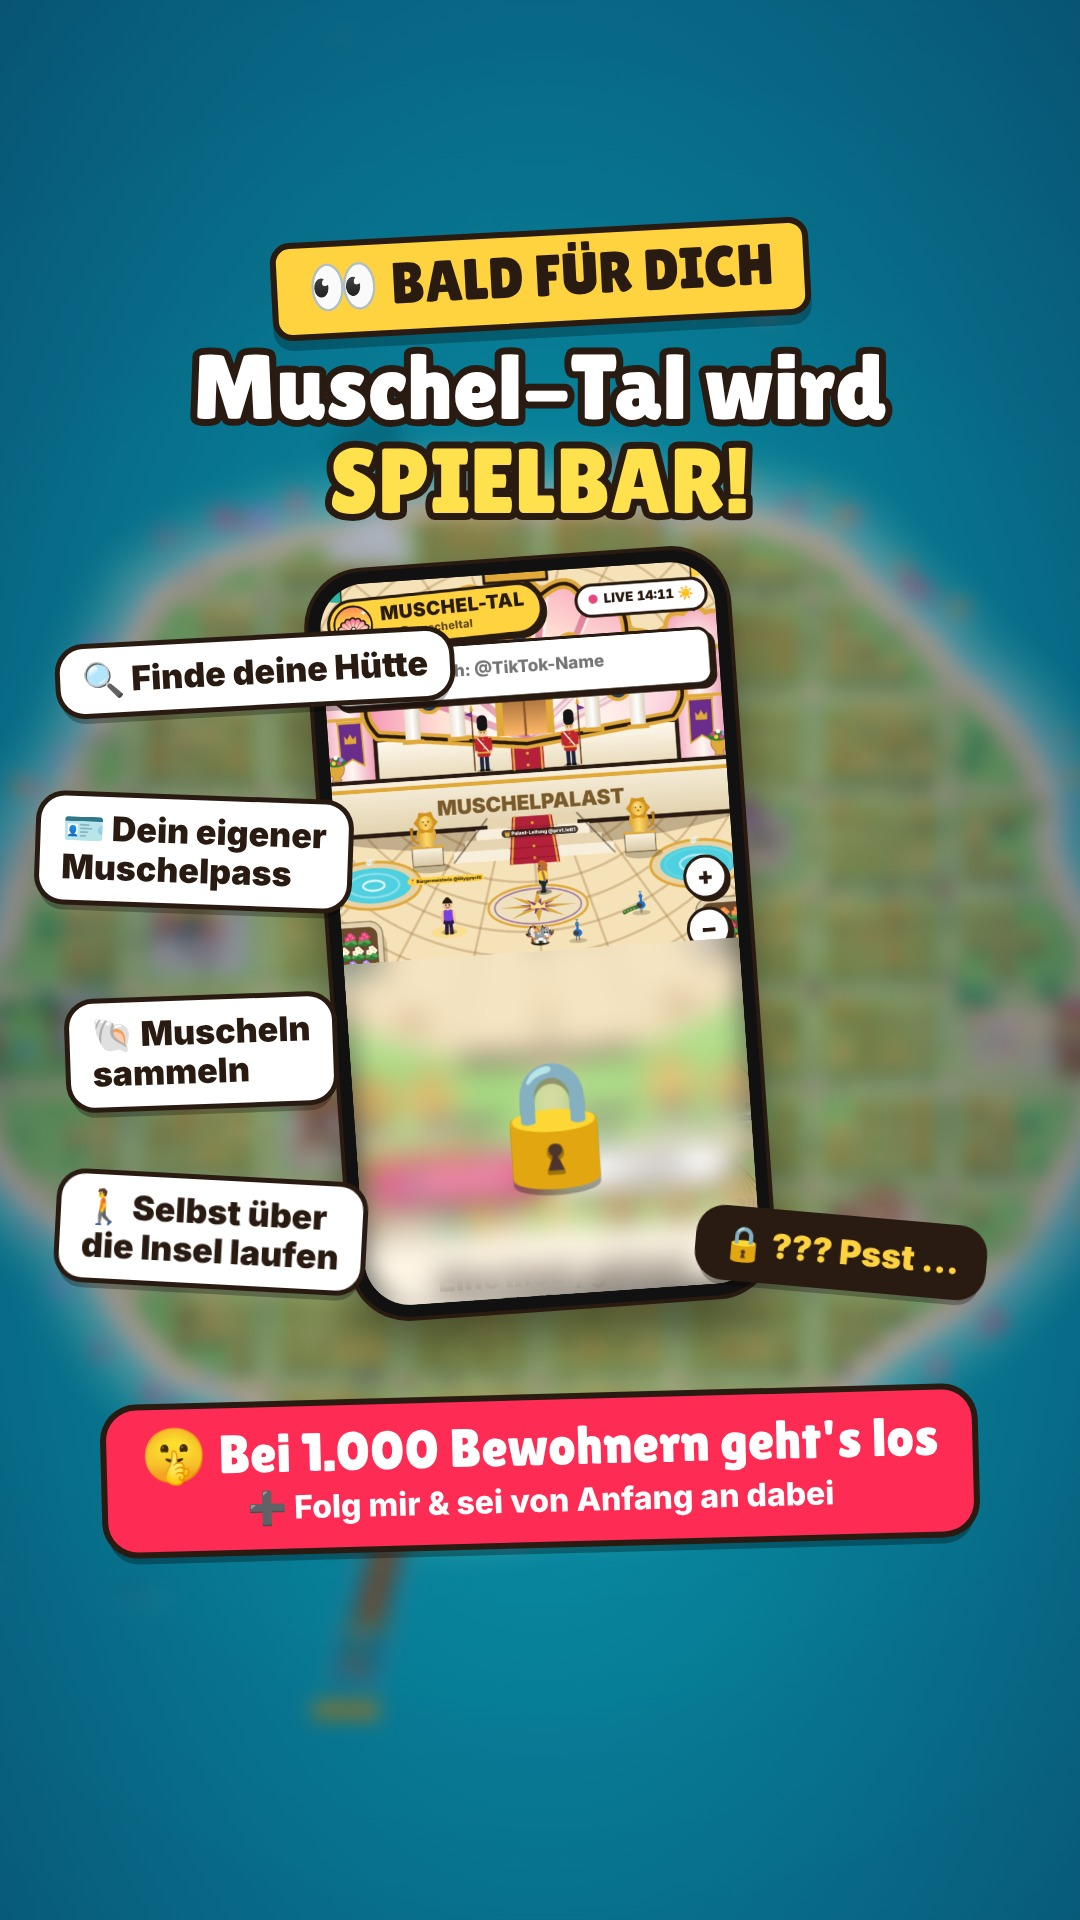
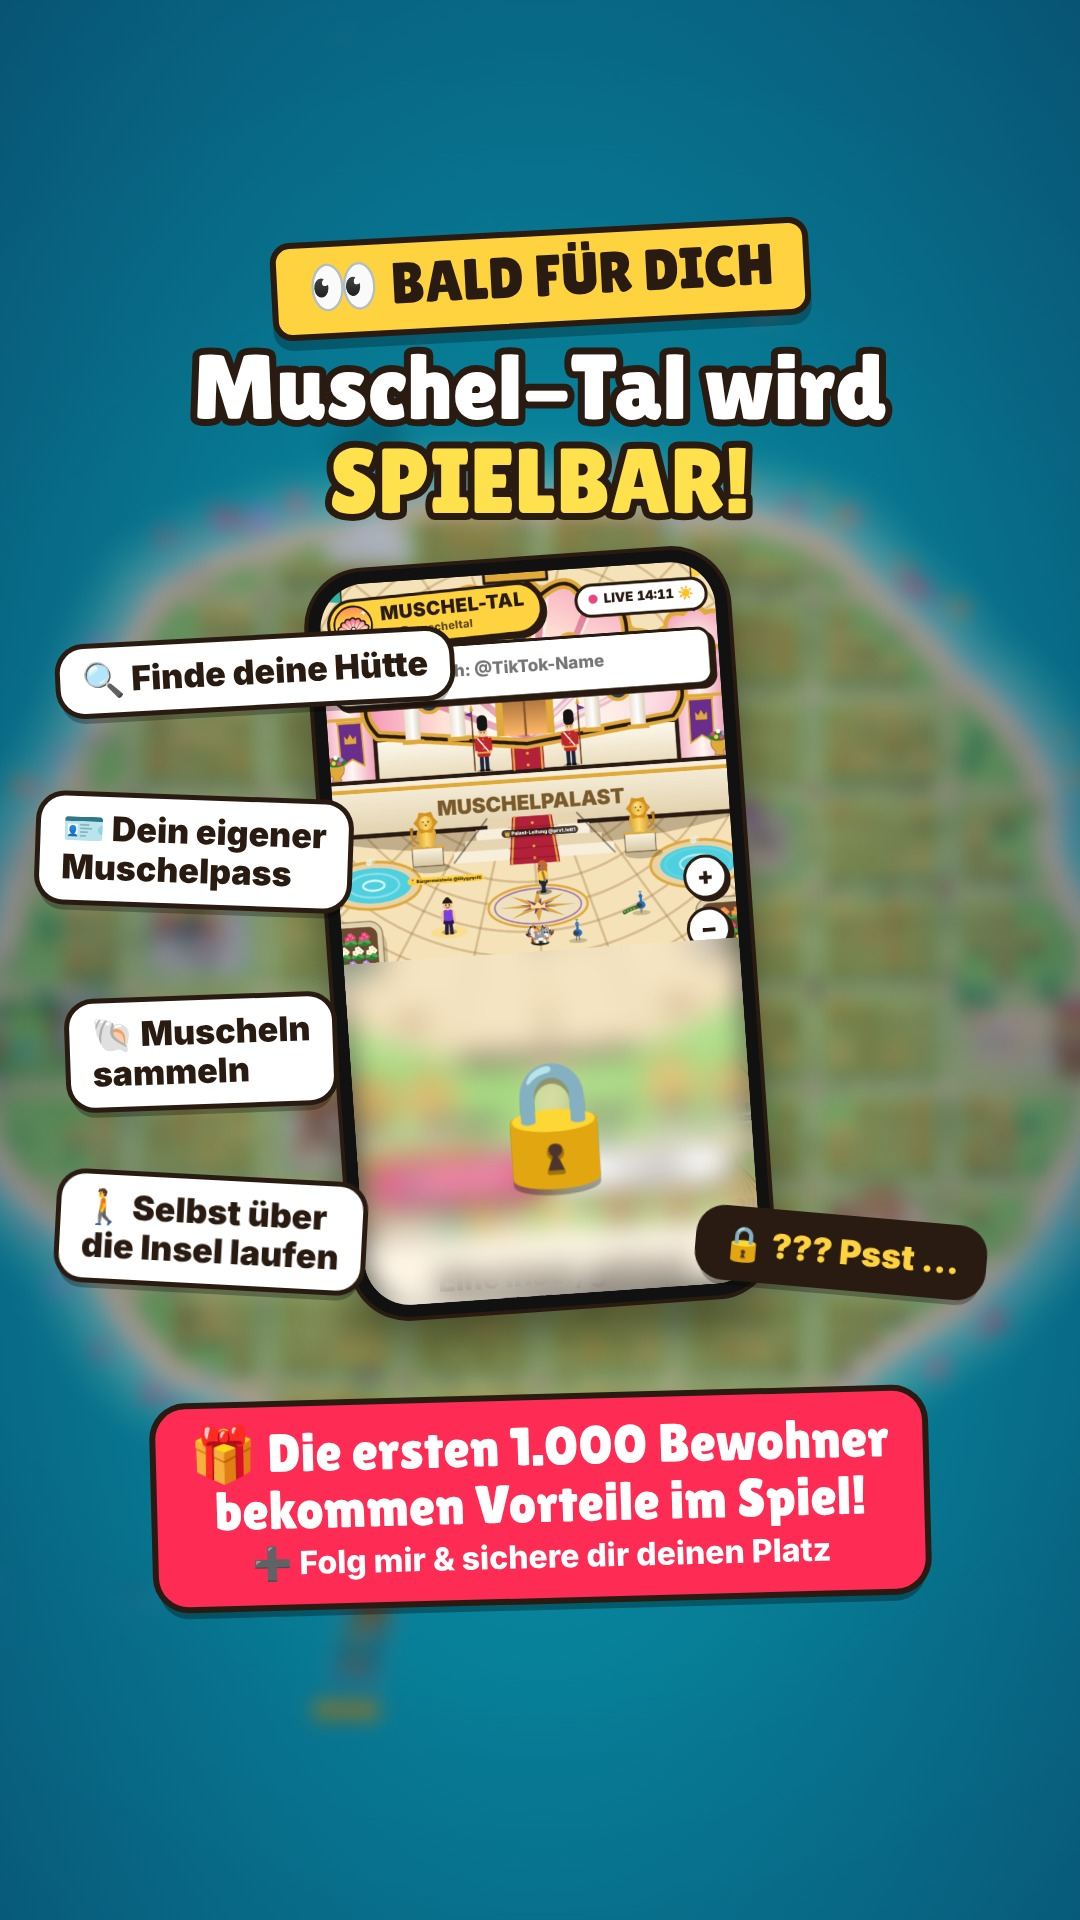
Story-Bild Homepage: Vorteile im Spiel für die ersten 1.000; Fakten ergänzt
Claude-Session: https://claude.ai/code/session_01McNdgWwqfWZ56Gqk3h71JF

Changed region(s): [[0.0917, 0.7188, 0.9167, 0.8438]]

diff --git a/videos/muscheltal-story-homepage/story.html b/videos/muscheltal-story-homepage/story.html
@@ -24,5 +24,5 @@
 <div class="chip" style="left:70px;top:1000px;transform:rotate(-2deg)">🐚 Muscheln<br>sammeln</div>
 <div class="chip" style="left:60px;top:1180px;transform:rotate(3deg)">🚶 Selbst über<br>die Insel laufen</div>
 <div class="chip lock" style="left:700px;top:1220px;transform:rotate(5deg)">🔒 ??? Psst …</div>
-<div class="c cta">🤫 Bei 1.000 Bewohnern geht's los<small>➕ Folg mir & sei von Anfang an dabei</small></div>
+<div class="c cta">🎁 Die ersten 1.000 Bewohner<br>bekommen Vorteile im Spiel!<small>➕ Folg mir & sichere dir deinen Platz</small></div>
 </body></html>

diff --git a/MUSCHELTAL_FAKTEN.md b/MUSCHELTAL_FAKTEN.md
@@ -210,3 +210,7 @@ Vor jeder Arbeit: `git pull origin claude/sweet-hamilton-2bxep9` (Videos und Hom
 - **Jede Person nur einmal auf der Karte** (11.11.): Wer arbeitet, hat trotzdem eine eigene Hütte, steht tagsüber aber nur im Laden (nie zusätzlich als Passant, Gast oder an der Hütte). Erkundet jemand mit Job selbst die Welt, steht er währenddessen nicht gleichzeitig hinter der Theke bzw. auf dem Muschelplatz.
 - **Süße Details an allen Läden** (11.11., keine Hindernisse, begehbare Fläche unverändert): auf jedem Ladenschild döst eine Katze (Zzz) und Spatzen hüpfen daneben (Strandbar: weiße Möwen, eine kreist über dem Steg); über jedem Gelände flattern tagsüber Schmetterlinge in Ladenfarben, nachts Glühwürmchen. Bäckerei: dampfende Zimtschnecken und aufsteigende Herzchen an der Theke; Açaí-Stand: ein Kolibri schwirrt am Stand; Werkstatt: ab und zu Funken am Schild.
 - **Strandvilla – Bewegungsregeln** (11.11.): Die Bewohnerinnen (@emiliamarie155, @lea.3818730) laufen nur noch über begehbare Flächen auf berechneten Wegen im normalen Gehtempo und machen an ihren Plätzen Pause – nie durch Pool, Liegen, Teich, Pflanzen oder Villa. Nur direkt hinter dem großen Sonnenschirm an der Terrasse (unter dem Schirmdach) kann niemand stehen, auch beim Erkunden nicht – rundherum ist alles begehbar, außer wo andere Gegenstände stehen.
+
+## Story-Bild „Muschel-Tal wird spielbar“ (11.11., `videos/muscheltal-story-homepage/`)
+- Teaser: Finde deine Hütte, eigener Muschelpass, Muscheln sammeln, selbst über die Insel laufen, „??? Psst …“ (Shop). Homepage-Adresse nicht genannt.
+- **Aussage: Die ersten 1.000 Bewohner bekommen Vorteile im Spiel.** (Ergänzt: Wer einen Job hat, hat beim Spiel bei 1.000 Followern einen Vorteil.) ⚠ Homepage sollte dem nicht widersprechen.
